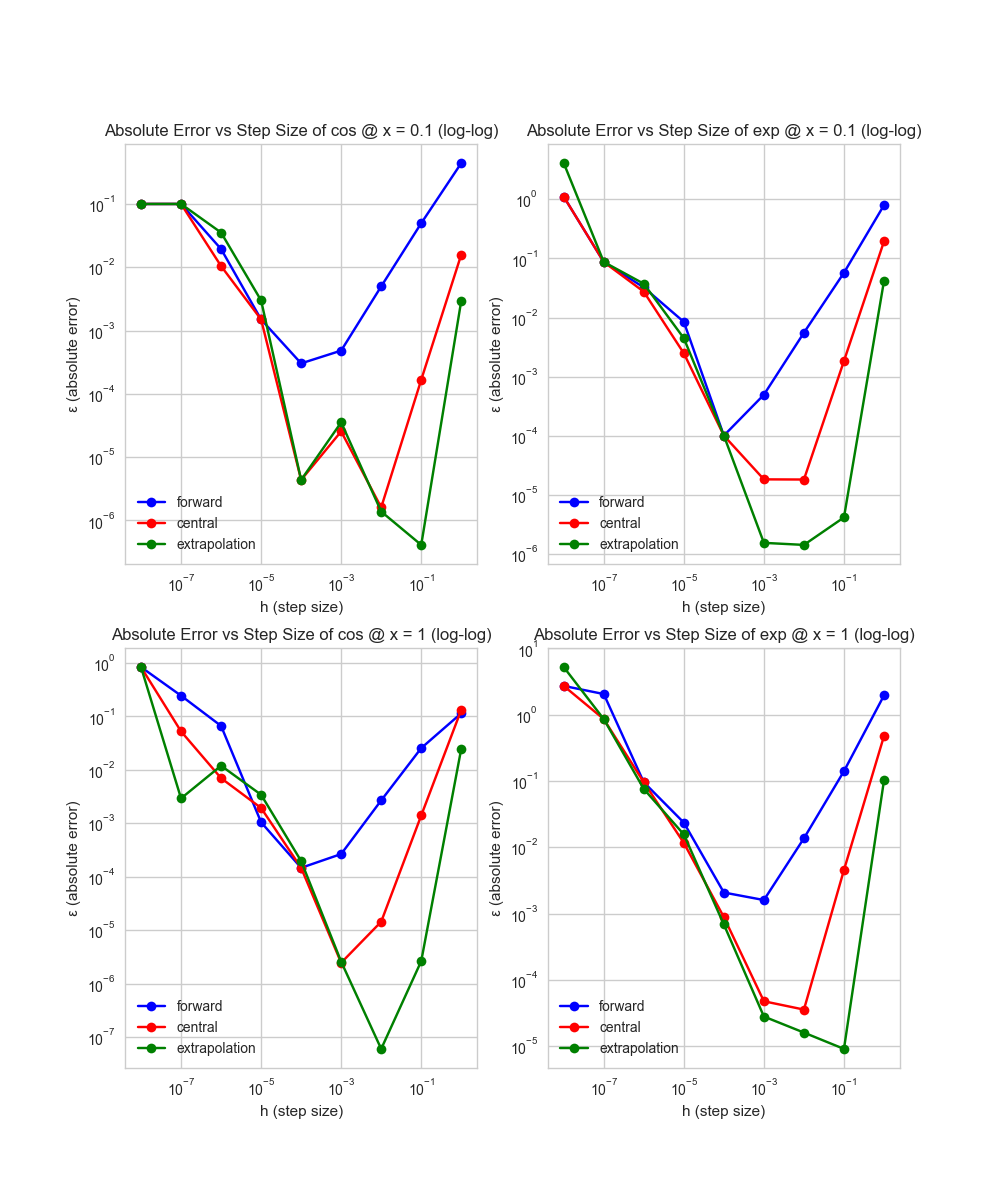
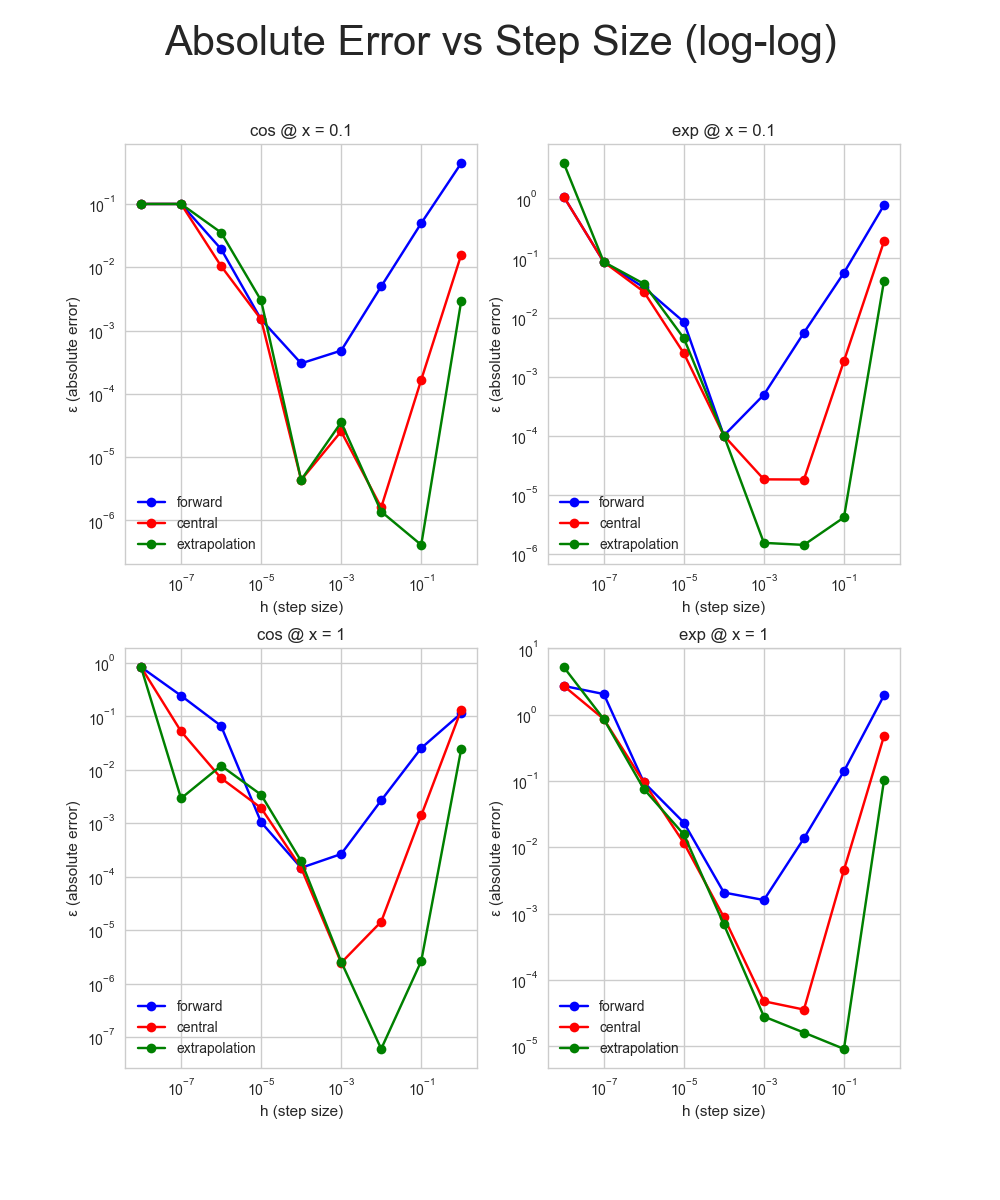
updated coade and graphs

diff --git a/homework1/src/q2.py b/homework1/src/q2.py
@@ -37,13 +37,13 @@ def integrate(f,a,b,N,method = 'all'):
     I_method : float
         Integral sum with that method's solution
     """
-    #trapezoid method here. 
+    
     h = (b - a) / (N)
     
-    midpoint_sum = sum([h*f((k+.5)*h) for k in range(1,N)])  #   expected error ~h^1
+    midpoint_sum = sum([h*f((k+.5)*h) for k in range(0,N)])  #   expected error ~h^1
     I_midpoint = midpoint_sum
             
-    trap_sum = sum([f(a + k*h) for k in range(1,N)])
+    trap_sum = sum([f(a + k*h) for k in range(0,N)])
     I_trapezoid = h*(f(a) / 2 + f(b) / 2 + trap_sum)  #   expected error ~h^2
               
         
@@ -53,9 +53,9 @@ def integrate(f,a,b,N,method = 'all'):
     I_simpson = (h/3)*s  #   expected error ~h^4
         
     if method == 'midpoint':
-        return np.float32(I_midpoint)
+        return I_midpoint
     if method == 'trapezoid':
-        return np.float32(I_trapezoid)
+        return I_trapezoid
     #still need to work on trapezoid rule .
     if method == 'simpson':
         return I_simpson
@@ -66,7 +66,7 @@ def integrate(f,a,b,N,method = 'all'):
 
 
 f = eminust
-true_integral = -eminust(1) +eminust(0) #this integral doesn't have an exact solution? 
+true_integral = (np.exp(1) -1) / np.exp(1) #this integral doesn't have an exact solution? 
 a = 0
 b = 1
 
@@ -74,7 +74,7 @@ Ns = 10**np.arange(0,7)
 calculated_integral = []
 
 for N in Ns:
-    
+    print("N=",N)
     calculated_integral.append(integrate(f=eminust,a=a,b=b,N=N,method='all'))
 error = abs(np.array(calculated_integral)  - true_integral)
 plt.figure(figsize=(10,10))

diff --git a/homework1/src/q1.py b/homework1/src/q1.py
@@ -78,13 +78,12 @@ for _, value in enumerate(values):
         error = abs(calculated_derivative - true_deriv) #absolute error
        # print("i+1: ", i)
         plt.subplot(2, 2, i)
-        
+        plt.title(func_str + ' @ x = ' + str(value))
         plt.plot(hvals,error[:,0],'b-o',label = 'forward')
         plt.plot(hvals,error[:,1],'r-o',label = 'central')
         plt.plot(hvals,error[:,2],'g-o',label = 'extrapolation')
         #plt.xlim([max(hvals),min(hvals)])
         plt.legend()
-        plt.title("Absolute Error vs Step Size of "+ func_str + " @ x = " + str(value)  +" (log-log)")#,fontsize = 10)
         plt.xscale('log')
         plt.yscale('log')
         plt.xlabel('h (step size)')
@@ -92,5 +91,6 @@ for _, value in enumerate(values):
 
         i += 1
 
+plt.suptitle("Absolute Error vs Step Size (log-log)",fontsize = 30)#+ func_str + " @ x = " + str(value)  +" (log-log)")#,fontsize = 10)
 
 plt.savefig('../bin/q1plots.png')

diff --git a/homework1/src/q3.py b/homework1/src/q3.py
@@ -48,7 +48,7 @@ plt.plot(rs,corrs,'b--')
 plt.plot(rs80[corrs80.argmax()],corrs80[corrs80.argmax()],'y*',markersize = 20,label = 'BAO Bump')
 plt.xlabel("Separation r [Mpc/h]",fontsize = 15)
 plt.ylabel('Correlation Function ξ (r)',fontsize = 15)
-plt.title("Correlation Function vs. Separation ",fontsize = 20)
+plt.title("Correlation Function vs. Separation ",fontsize = 30)
 plt.legend()
 
 plt.savefig('../bin/q3plot1.png')
@@ -62,7 +62,7 @@ plt.plot(rs,r2corrs,'b--')
 plt.plot(rs80[r2corrs80.argmax()],r2corrs80[r2corrs80.argmax()],'y*',markersize=20,label = 'BAO Bump')
 plt.xlabel("Separation r [Mpc/h]",fontsize = 15)
 plt.ylabel('r^2 * ξ (r)',fontsize = 15)
-plt.title("r^2 * ξ (r) vs. r  ",fontsize = 20)
+plt.title("r^2 * ξ (r) vs. r  ",fontsize = 30)
 plt.legend()
 
 plt.savefig('../bin/q3plot2.png')
